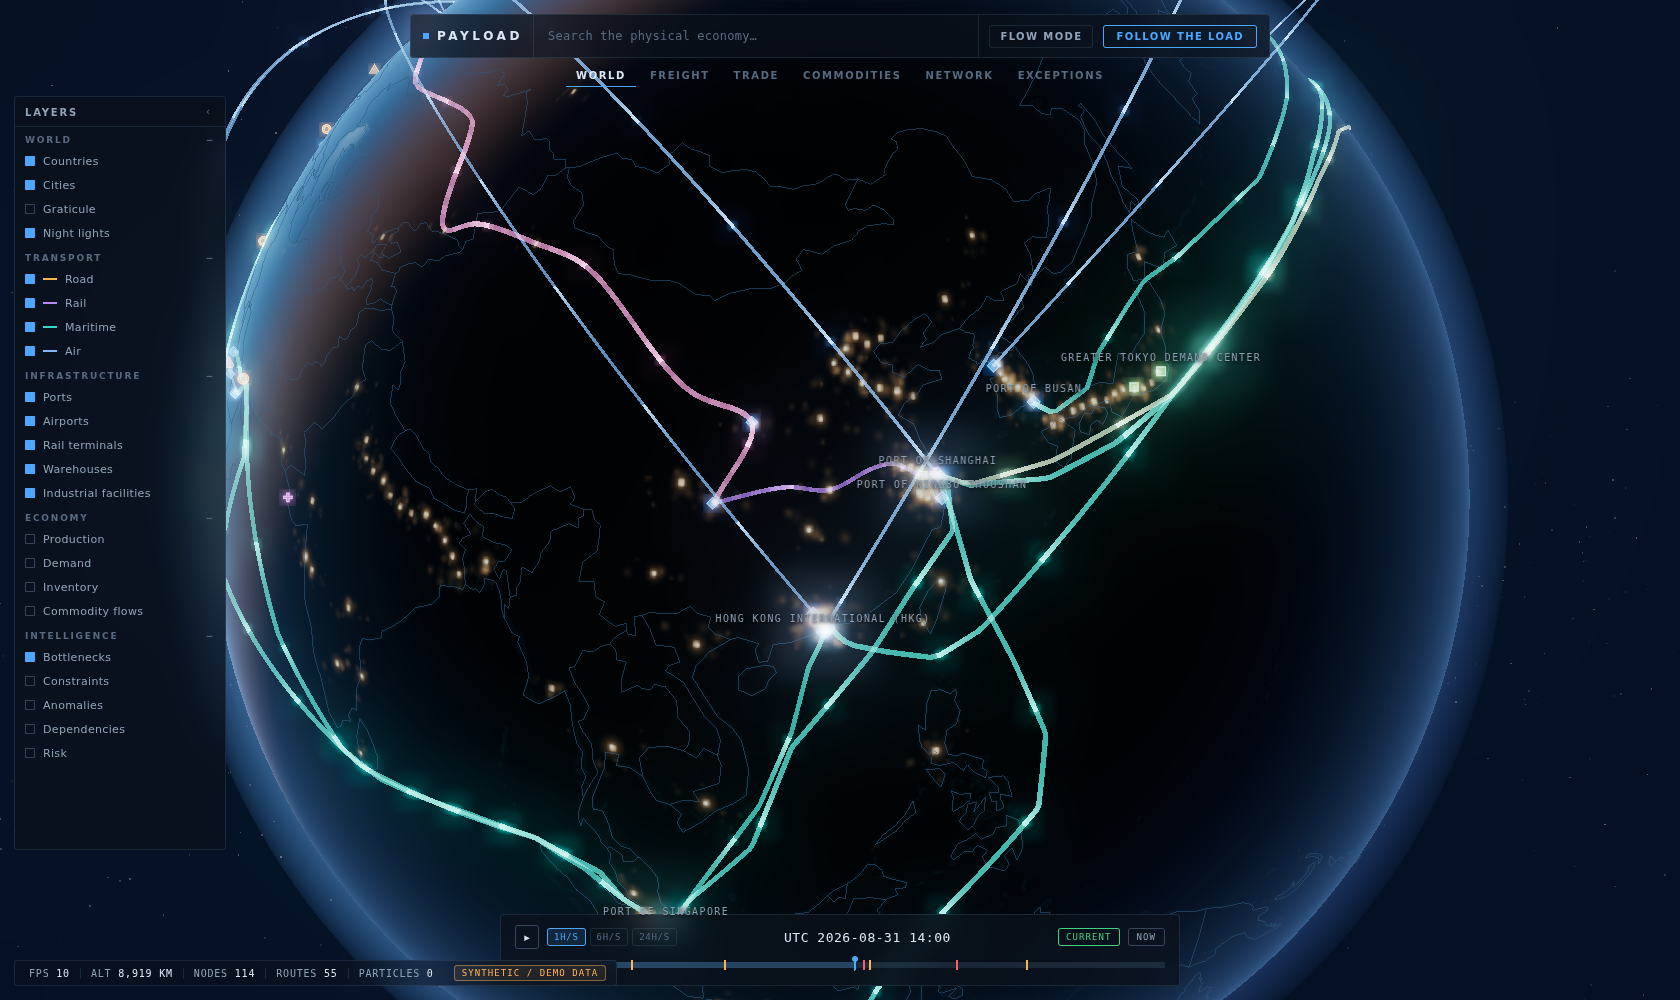
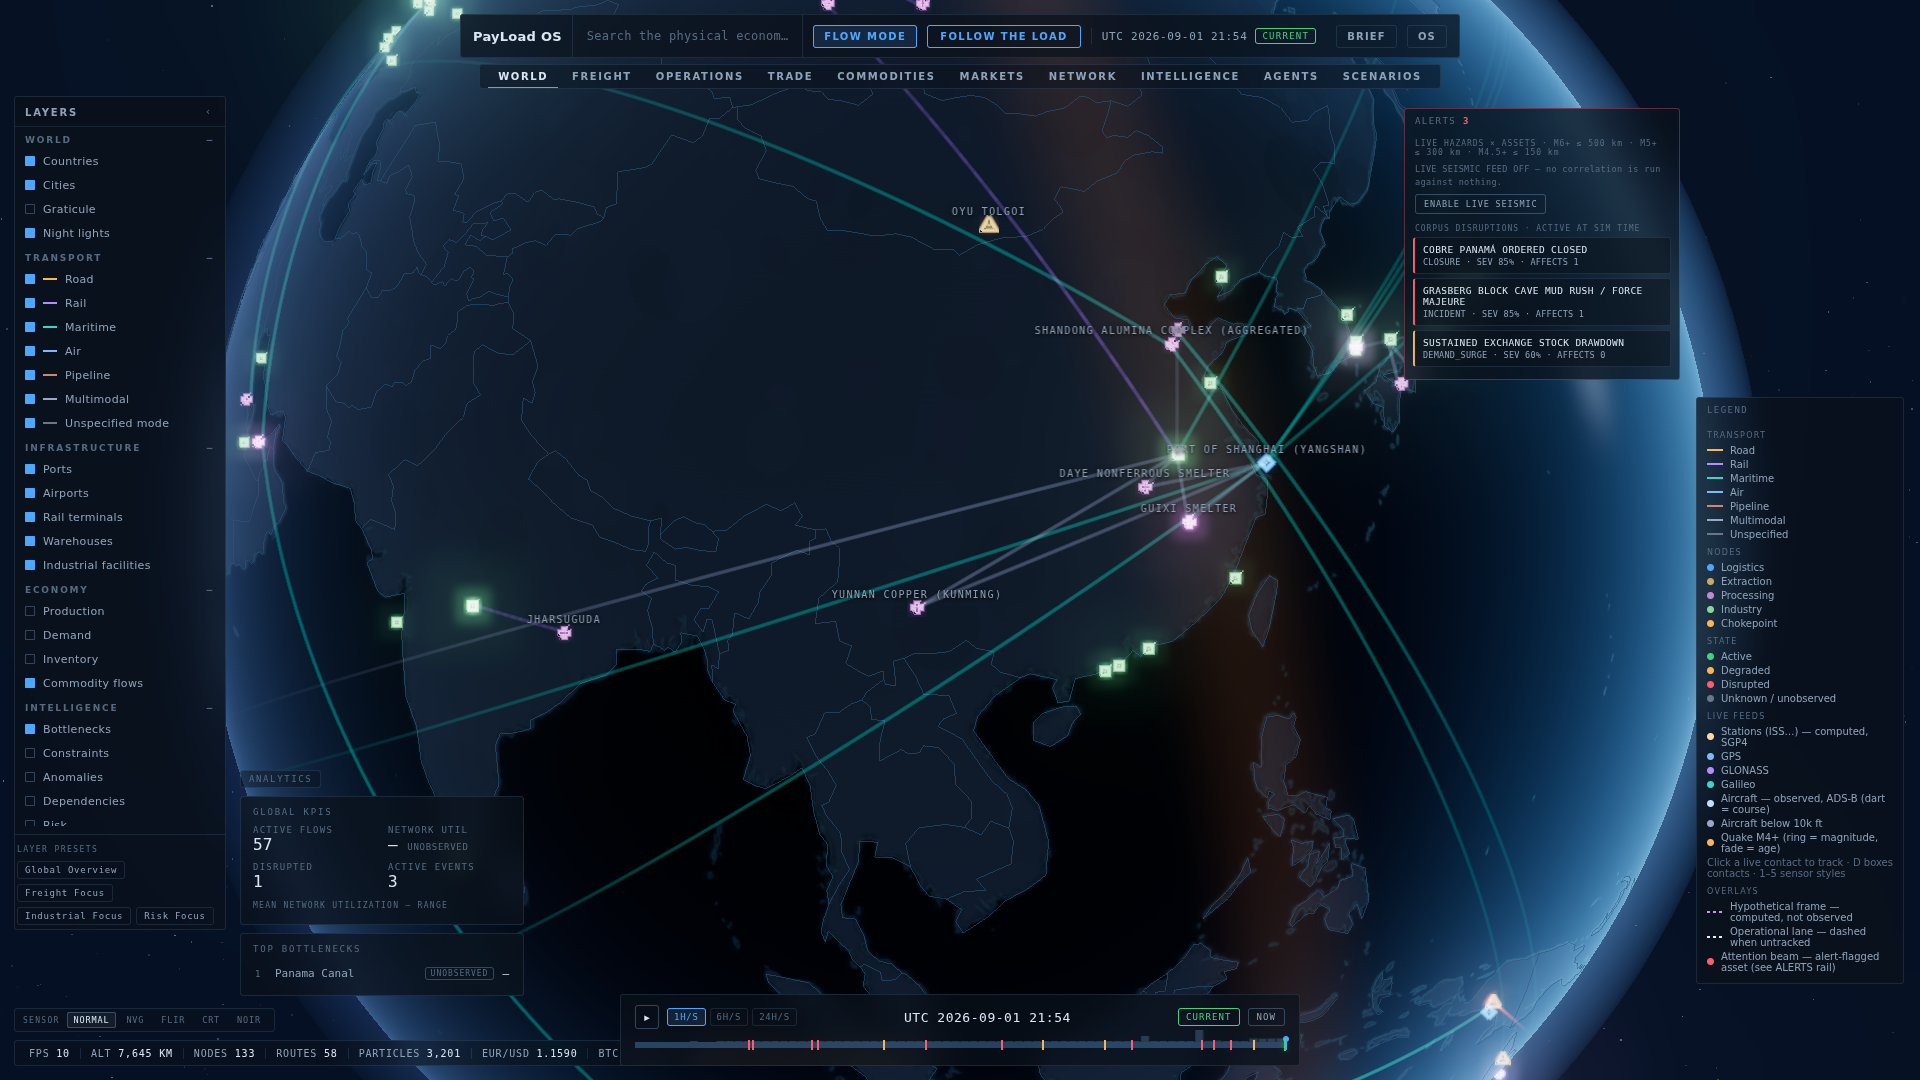
Design-language specification + press-kit media refresh
- docs/DESIGN.md: the design-system record - stance, the semantic
  vocabulary (SOLID observed / HOLLOW declared / DASHED hypothetical
  or untracked / DIM focus / GREY unobserved / ABSENT with reason /
  BEAM flagged), COMPUTED-label and refusal-first companion rules,
  palette and reserved treatments, typography voices, z-bands and
  regions, interaction grammar, a one-honesty-rule-per-surface
  inventory of all 19 instruments, motion discipline, encoding rules,
  and the 7-question checklist any new surface must answer
- docs/media re-shot at the current build (the old set predated the
  PayLoad OS rebrand): global, asia-night, route-inspector refreshed;
  ops-desk (schedule strip), markets-derivatives, live-track added;
  README gallery and Architecture section link the design record

Claude-Session: https://claude.ai/code/session_013F7Nxoy7JCT6gBS7dHNn6Y

diff --git a/docs/DESIGN.md b/docs/DESIGN.md
@@ -1,0 +1,180 @@
+# PayLoad OS — Design Language
+
+The design-system record of the twin's front-of-house: what the
+instrument looks like, how it behaves, and — above everything — how
+**epistemic state is encoded visually**. The renderer is a projection of
+provider state; the design language is how that projection stays honest
+at a glance. Codex owns the systems underneath; this document is the
+contract for anyone drawing pixels on top of them.
+
+---
+
+## 1. Stance
+
+- **An instrument, not a dashboard.** Quiet glass panels over a dark
+  globe; mono type for readings, prose type for names; restraint in
+  motion. The operator reads it like avionics.
+- **Plain identity.** The wordmark is the words `PayLoad OS` — no
+  glyph, no gradient, no ornament.
+- **Honesty is the aesthetic.** Every treatment below encodes where a
+  number came from. A viewer who knows the vocabulary can audit a
+  screenshot.
+
+## 2. The semantic vocabulary
+
+These treatments carry meaning everywhere they appear. Never reuse one
+for decoration.
+
+| Treatment | Meaning | Examples |
+|---|---|---|
+| **SOLID** fill / dot | OBSERVED — an event or reading that happened | Gantt dispatch dots, ADS-B darts, state dots |
+| **HOLLOW** (border, faint fill) | DECLARED — a promise or window, not yet an observation | Gantt pickup/delivery windows |
+| **DASHED violet** `#d98cff` | HYPOTHETICAL — computed counterfactual, never real-state | Scenario rings/arcs, banner border |
+| **DASHED white** `#e8f1fb` | DECLARED LANE, MOVEMENT UNOBSERVED | Operations lane before tracking exists |
+| **DIMMED** | OUT OF FOCUS — emphasis only, nothing hidden | Route brush, commodity focus, intelligence preset |
+| **GREY** `#6b7688` | STATE UNOBSERVED — absence is not zero | Node/route state, `UNOBSERVED` chips |
+| **ABSENT** + stated reason | REFUSED / UNAVAILABLE — the surface says why | Market pulse hides when the feed is down; refusal cards |
+| **BEAM** (red/amber pillar + pad) | ALERT-FLAGGED asset — a marker of an alert that exists elsewhere with its basis | Attention beams |
+
+Companion rules:
+
+- **COMPUTED labels.** Any figure the client derives (Δ%, annualized
+  basis, funding APR, proximity distance, FX restatement) carries the
+  word COMPUTED in text — style alone is not enough — with its inputs
+  or instants named.
+- **Refusal-first.** An unconfigured or failed surface renders the
+  typed refusal WITH ITS REMEDY (`.ops-refusal` idiom). There is no
+  state in which a desk silently shows emptiness it cannot vouch for.
+- **Stated criteria.** A surface that filters or caps says so on the
+  surface (correlation radii on the alerts rail, `SHOWING 160 OF 341`
+  on the detection overlay, top-OI cap on the options list) — an empty
+  result reads "nothing within stated criteria", never "nothing
+  happened".
+- **Basis lines.** Every desk/panel leads with its source and
+  disclaimer (an ECB fix is "informational, not a tradeable quote"; a
+  venue mark is "the venue's model"; ops is "journal projection").
+
+## 3. Color
+
+Ground: near-black blue (`#020409` clear color) with glass panels
+(`--glass`, `--glass-soft`) and hairlines (`--line`, `--line-strong`).
+Text ramp: `--text-hi` / `--text-mid` / `--text-dim`.
+
+**Transport modes** (routes, decoded in legend):
+road amber · rail violet · maritime teal · air blue · pipeline
+`#d08770` · multimodal `#9aa7c7` · unspecified `#6b7688`.
+
+**Node categories:** logistics blue · extraction amber · processing
+magenta/violet · industry green · chokepoint gold.
+
+**State:** ok green `--ok` · degraded amber `--warn` · disrupted red
+`--alert` · unobserved grey `#6b7688`.
+
+**Live feeds:** stations `#ffd9a0` · GPS `#7fb8ff` · GLONASS `#b48cff`
+· Galileo `#38d6c8` · aircraft `#bfe0ff` (below 10k ft `#9aa7c7`) ·
+quakes by magnitude (alert/warn/`#c9a86a`).
+
+**Desk accents (markets):** FX `#4da6ff` · crypto `#ffb454` ·
+derivatives `#b48cff` · broker teal. Direction coloring uses state
+green/red and never doubles as a category hue.
+
+**Reserved:** violet `#d98cff` belongs to the hypothetical frame only.
+White dashed belongs to untracked operational lanes only.
+
+## 4. Typography
+
+- **IBM Plex Mono** — the instrument voice: kickers, readouts,
+  evidence lines, chips, numbers (`font-variant-numeric: tabular-nums`
+  wherever digits align).
+- **Inter** — the prose voice: entity names, descriptions, remedies.
+- Uppercase mono always carries letter-spacing (0.06–0.22em by size);
+  numbers never letter-spaced.
+
+## 5. Layout and z-bands
+
+One system; every fixed surface declares its band:
+
+```
+3D labels 5 · reticle 9 · detection overlay 10 · docks/legend/rails/
+pins/sensor 12–15 · inspector/statusbar/panels 20 · timeline 21 ·
+track card 22 · scenario banner 25 · command bar 30 ·
+overlays (SITREP, arch, toasts, suggest) 40 · tooltip 60
+```
+
+Regions: command bar + tabs top-center · layer rail left · analytics
+dock left-bottom (240px in) · pins column top-left (240px in) · alerts
+rail top-right (240px in) · legend bottom-right · status bar
+bottom-left · sensor chips above it · timeline bottom-center · track
+card above timeline · toasts right. Reference surfaces (legend, alerts
+rail) TUCK when the inspector or a panel takes their space; work
+surfaces do not.
+
+## 6. Interaction grammar
+
+Pointer: **drag** rotate · **wheel** zoom (altitude drives disclosure)
+· **click** select (corpus first; live contacts outrank the country
+pick; any other click releases a live track) · **shift-click** pin A/B
+compare (selection untouched) · **double-click** focus · **hold B**
+route brush · **hover** identifies before the click (corpus state or
+live basis chip).
+
+Keys: **Esc** ladder (arch overlay → demo → live track → panel →
+selection) · **D** detection overlay · **1–5** sensor styles ·
+**Space** play/pause · **/** search.
+
+Command bar verbs: `find/show/hide/flows/play/speed/compare/what if/
+rank/brief/follow the load` + preset names. `help` prints the grammar.
+
+## 7. Surface inventory (one honesty rule each)
+
+| Surface | Rule |
+|---|---|
+| Command bar + tabs | regime chip states historical/current/forecast; BRIEF/OS chips open overlays |
+| Layer rail | toggles visibility only — never filters data |
+| Analytics dock | observed-only means; UNOBSERVED stated in the KPI itself |
+| Alerts rail | correlation radii printed; feed-off stated; COMPUTED PROXIMITY claims nearness, never impact |
+| Legend | every color on the globe decoded, including reserved treatments and beams |
+| Status bar | disclaimer chip states the LOADED corpus; market pulse absent (never zero) when the feed is down |
+| Timeline | evidence-density strip; future region striped; regime never inferred |
+| Inspector | per-record provenance (source, knownAt, valueKind, admissible); MEAN OBSERVED naming |
+| Tooltip | identifies before the click; live contacts show basis; clears when a panel opens beneath it |
+| Pins (A/B) | deltas computed from corpus state at sim time; one unobserved side = stated refusal to subtract |
+| Track card + reticle | OBSERVED fix age + dead-reckoned statement, or COMPUTED SGP4 + TLE age; reticle rides the rendered buffer |
+| Detection overlay | basis split in the header; display caps stated |
+| Sensor styles | restyle the FEED only; instruments untouched; "same data" stated in the toast |
+| OPERATIONS panel | read-only journal mirror; exception-first; Gantt hollow-vs-solid; policy stated, not implied |
+| COMMODITIES panel | per-record evidence on every series; granularity split by field; FX lens computed with both dates; no invented metals quote |
+| MARKETS panel | desk basis lines; venue ≠ market; fix ≠ quote; broker fail-closed + read-only posture card |
+| SCENARIOS panel | counterfactuals in reserved violet under a persistent banner; ranking is computed intelligence |
+| SITREP | composes loaded surfaces only; refusing desks appear as refusals; text export keeps labels |
+| Arch overlay | the renderer names itself projection-only |
+
+## 8. Motion discipline
+
+Animation only where it carries meaning: state pulse on selected rings,
+M5.5+ recent quake pulse, beam breathing, reticle arcs, flow particles,
+scenario dash drift. Everything else is still. All of it collapses
+under `prefers-reduced-motion`.
+
+## 9. Encoding rules
+
+- Bars are linear with the domain stated in the footer (`min–max ·
+  n=…`); ranked bars normalize to the visible peak and say so.
+- Sparklines state their time range and observation count.
+- Quake radius encodes magnitude, opacity encodes report age — both
+  decoded in the legend.
+- No composite scores anywhere. Ranked lists rank by one named metric.
+
+## 10. Checklist for a new surface
+
+1. What is the **basis** of every number, and where does the surface
+   say it?
+2. What does it render when the source **refuses** or is missing —
+   and does that state carry the remedy?
+3. Are all **derived** figures labeled COMPUTED with inputs named?
+4. Does absence render as **stated absence**, never zero?
+5. Which **z-band** does it declare, and does it tuck or hold when the
+   inspector/panels open?
+6. Does it use only palette colors — and none of the **reserved**
+   treatments — for decoration?
+7. Does its motion collapse under reduced-motion?

diff --git a/README.md b/README.md
@@ -2,11 +2,15 @@
 
 **An interactive digital twin of the physical economy.**
 
-![Payload Earth — global network view](docs/media/global.png)
+![PayLoad OS — global network view](docs/media/global.png)
 
 | Night-side economy | Route inspector |
 | --- | --- |
 | ![Asia at night](docs/media/asia-night.png) | ![Route inspector](docs/media/route-inspector.png) |
+
+| Operations control tower | Derivatives desk | Live tracking |
+| --- | --- | --- |
+| ![Operations desk](docs/media/ops-desk.png) | ![Markets — derivatives](docs/media/markets-derivatives.png) | ![Live aircraft tracking](docs/media/live-track.png) |
 
 Payload Earth renders the machinery of trade — ports, rail terminals, refineries,
 warehouses, chokepoints — on a dark, cinematic WebGL globe. Four transport modes
@@ -184,6 +188,11 @@ The engineering record — the data/render seam, provenance discipline, the
 Assertion/Observation/Deviation model, the provider interface, the rendering
 pipeline, and the temporal model — lives in
 [`docs/ARCHITECTURE.md`](docs/ARCHITECTURE.md).
+
+The **design language** — the semantic vocabulary (solid=observed,
+hollow=declared, dashed=hypothetical, absence stated), palette, z-bands,
+interaction grammar, and the honesty rule of every surface — lives in
+[`docs/DESIGN.md`](docs/DESIGN.md).
 
 ## License
 
